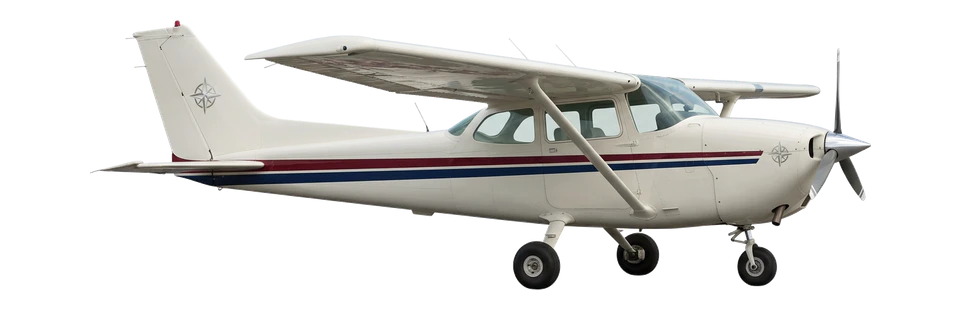
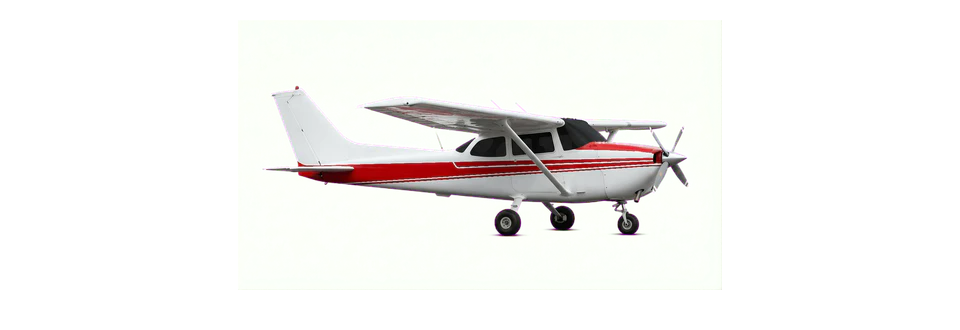
Regenerate PG-010 aircraft with chroma workflow

Changed region(s): [[0.0938, 0.0606, 0.9062, 0.8788]]

diff --git a/test/plane-chroma-extractor.test.js b/test/plane-chroma-extractor.test.js
@@ -20,3 +20,19 @@ test('PG-018 chroma extraction removes edge-connected magenta and preserves encl
   assert.equal(alpha(20, 12), 255);
   assert.equal(alpha(10, 12), 255);
 });
+
+test('PG-010 global chroma extraction removes enclosed key pixels when the subject palette excludes magenta', async (t) => {
+  const directory = await mkdtemp(join(process.cwd(), '.generated', 'chroma-test-'));
+  t.after(() => rm(directory, { recursive: true, force: true }));
+  const input = join(directory, 'input.png');
+  const output = join(directory, 'output.png');
+  await sharp({ create: { width: 40, height: 24, channels: 3, background: '#ff00ff' } })
+    .composite([{ input: Buffer.from('<svg width="40" height="24" xmlns="http://www.w3.org/2000/svg"><rect x="8" y="6" width="24" height="12" rx="3" fill="white"/><rect x="16" y="9" width="8" height="6" fill="#d000d0"/></svg>') }])
+    .png().toFile(input);
+  await extractPlaneChroma({ inputPath: input, outputPath: output, scope: 'global' });
+  const { data, info } = await sharp(output).ensureAlpha().raw().toBuffer({ resolveWithObject: true });
+  const alpha = (x, y) => data[(y * info.width + x) * 4 + 3];
+  assert.equal(alpha(0, 0), 0);
+  assert.ok(alpha(20, 12) < 128);
+  assert.equal(alpha(10, 12), 255);
+});

diff --git a/design/plane-art/README.md b/design/plane-art/README.md
@@ -164,6 +164,13 @@ npm run plane-art:chroma -- --input <candidate.png> --output <transparent.png> -
 node scripts/process-plane-art.mjs --artwork-id <id> --direction <direction> --input <candidate.png> --source-metadata <metadata.json> --manual-repair <transparent.png> --proof <proof.png>
 ```
 
+The default `--scope connected` preserves enclosed subject pixels that match the
+key color. A narrowly scoped batch whose protected subject palette explicitly
+excludes the key color may use `--scope global` to remove enclosed background
+visible through windows, landing gear, or equipment gaps. PG-010's neutral,
+white/blue, and yellow treatments use this recorded exception because none of
+their protected paint or markings contain magenta.
+
 The extractor flood-fills only edge-connected chroma pixels, unmattes
 antialiased edges against the exact background color, and replaces translucent
 edge RGB with the nearest fully opaque aircraft color to remove color spill.
